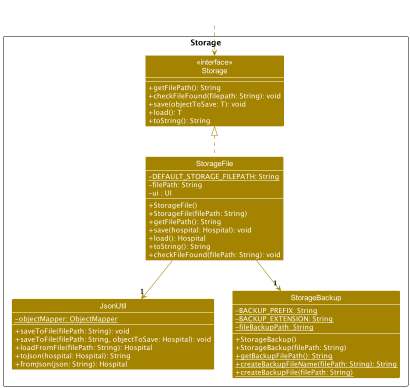
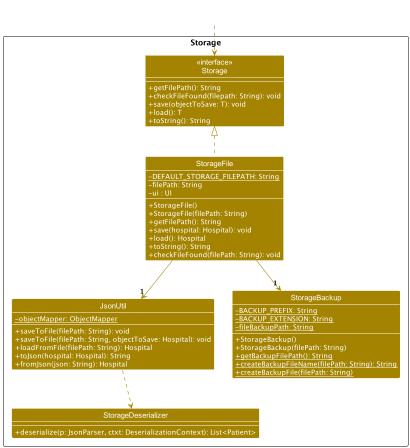
Update Storage Diagram

diff --git a/src/main/java/seedu/duke/MediTask.java b/src/main/java/seedu/duke/MediTask.java
@@ -6,12 +6,12 @@ import seedu.duke.commands.ExitCommand;
 import seedu.duke.commands.HospitalCommand;
 import seedu.duke.data.exception.UnknownStateFound;
 import seedu.duke.data.hospital.Hospital;
+import seedu.duke.data.logger.LoggerConfig;
 import seedu.duke.data.state.State;
 import seedu.duke.data.state.StateManager;
 import seedu.duke.parser.Parser;
 import seedu.duke.storage.StorageFile;
 import seedu.duke.ui.Ui;
-import seedu.duke.data.logger.LoggerConfig;
 
 /**
  * Entry point of the MediTask program is a task management application for
@@ -23,7 +23,7 @@ public class MediTask {
     /** Version info of the program. */
     public static final String VERSION = "MediTask - Version 2.0";
     private Ui ui;
-    private StorageFile storage;
+    private StorageFile<Hospital> storage;
     private Hospital hospital; // Load data from file
     private StateManager stageManager; // Manages the different states of the program
 
@@ -51,7 +51,7 @@ public class MediTask {
      */
     private void start() {
         ui = new Ui();
-        storage = new StorageFile();
+        storage = new StorageFile<>();
         stageManager = new StateManager(); // Initialize the stage manager
         ui.showWelcome();
         hospital = storage.load(); // Load data from file

diff --git a/src/main/java/seedu/duke/data/hospital/Hospital.java b/src/main/java/seedu/duke/data/hospital/Hospital.java
@@ -10,6 +10,7 @@ import com.fasterxml.jackson.annotation.JsonIgnore;
 import com.fasterxml.jackson.annotation.JsonInclude;
 import com.fasterxml.jackson.annotation.JsonPropertyOrder;
 import com.fasterxml.jackson.annotation.JsonRootName;
+
 import seedu.duke.data.task.TaskList;
 
 @JsonPropertyOrder({"patients"})
@@ -19,6 +20,7 @@ public class Hospital {
     @JsonIgnore
     private static Patient selectedPatient;
     private static final Logger logger = Logger.getLogger(Hospital.class.getName());
+
     private List<Patient> patients;
 
     static {
